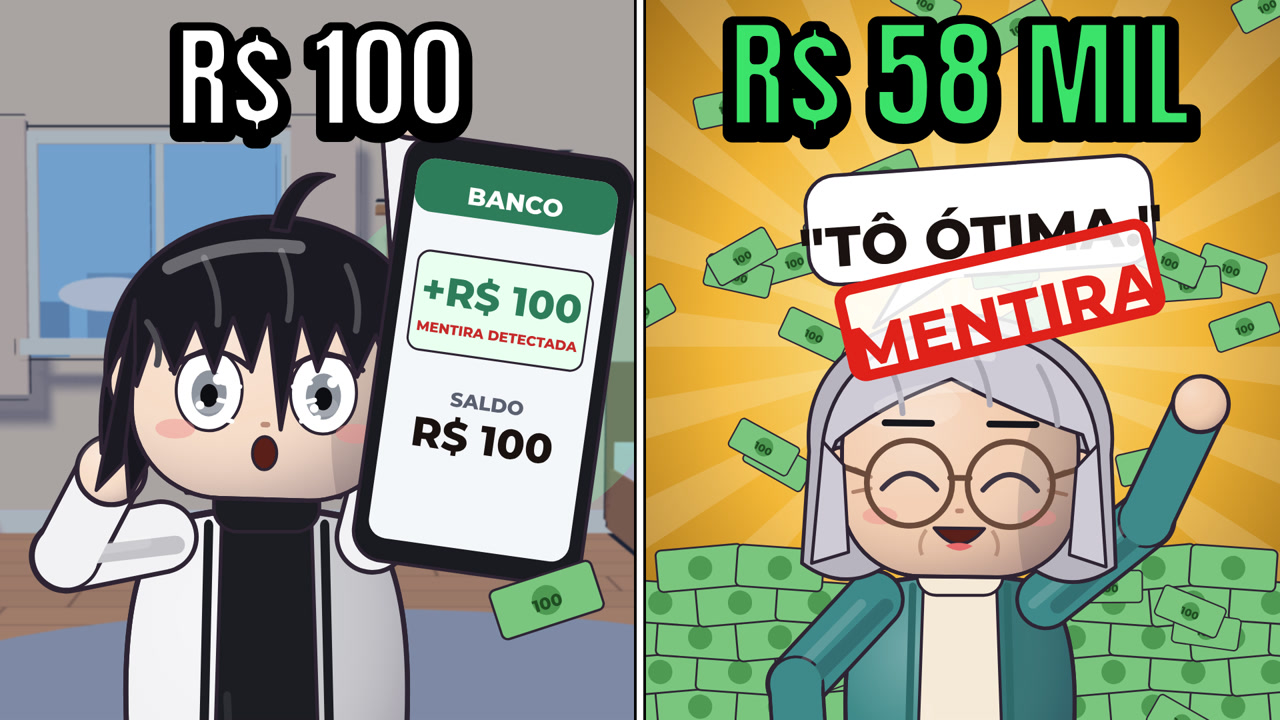
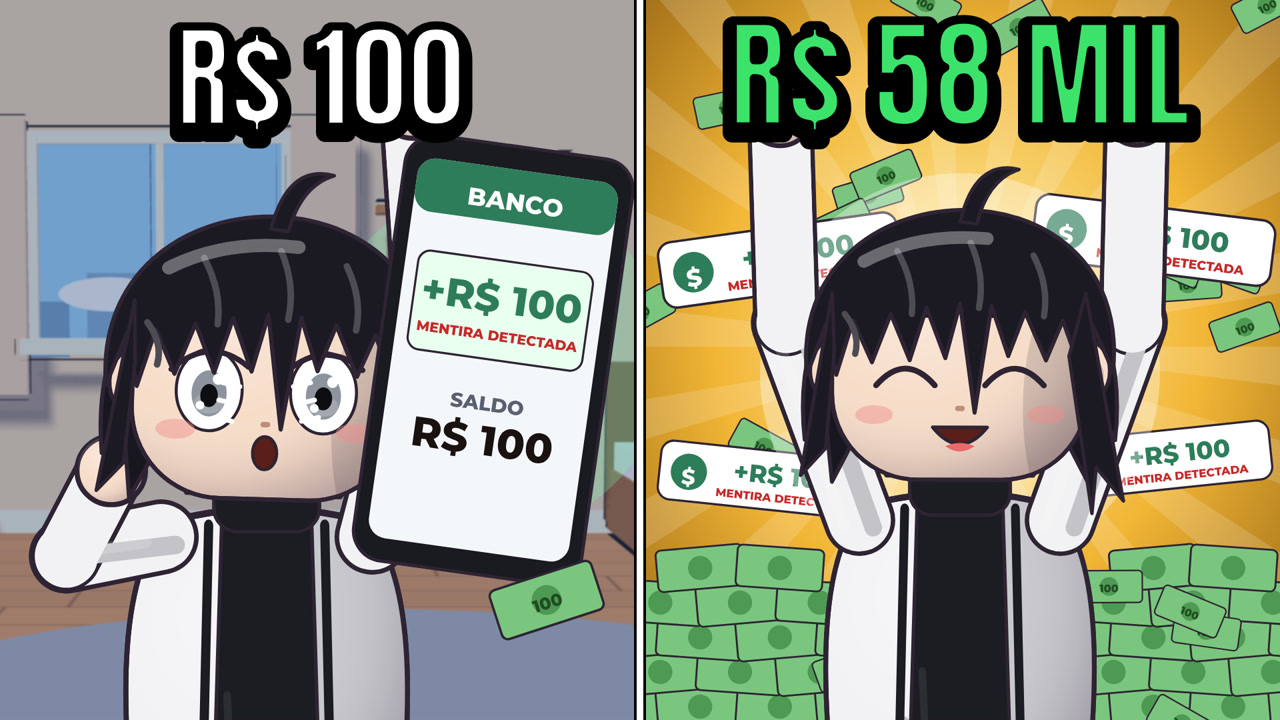
Mentiras: capa v5 sem a mae (Neo comemorando na chuva de dinheiro)
Claude-Session: https://claude.ai/code/session_01LhtxzVH3qqLdbNSUbkPF4y

Changed region(s): [[0.5, 0.1833, 1.0, 1.0]]

diff --git a/longos/capas_v3/d2.js b/longos/capas_v3/d2.js
@@ -12,9 +12,10 @@ for (let i = 0; i < 22; i++) { const a = i * (Math.PI * 2 / 22); right += '<poly
 const pile = (x, y, s) => { let p = ''; for (let r = 0; r < 5; r++) for (let c = 0; c < 6 - r; c++) p += G(`translate(${x + (c - (5 - r) / 2) * 92},${y - r * 40}) rotate(${(c + r) % 2 ? 4 : -5})`, R(-50, -24, 100, 48, 6, '#7BC67E', 4) + C(0, 0, 14, '#4E9A52', 0)); return G(`translate(0,0) scale(1)`, `<g transform="translate(${x},${y}) scale(${s}) translate(${-x},${-y})">${p}</g>`); };
 right += pile(1110, 1060, 1.3) + pile(1790, 1060, 1.3);
 right += bills(2.5, 40, 12).replace(/translate\((\d+(\.\d+)?)/g, (m, x) => 'translate(' + (960 + parseFloat(x) / 2));
-right += person(Object.assign({}, LUCIA, { x: 1440, y: 1640, s: 1.75, expr: 'happy', hr: [230, -340] }));
-right += G('translate(1470,330) rotate(-4)', R(-260, -82, 520, 164, 46, '#FFFFFF', 10) + P('M-120,78 L-170,150 L-40,78Z', '#FFFFFF', 10) + R(-110, 72, 80, 12, 0, '#FFFFFF', 0) + T(0, 32, '"TÔ ÓTIMA."', 84, '#1A1210'));
-right += G('translate(1500,450) rotate(-13)', `<rect x="-235" y="-66" width="470" height="132" rx="18" fill="rgba(255,255,255,0.88)" stroke="#E0201A" stroke-width="16"/>` + T(0, 34, 'MENTIRA', 96, '#E0201A'));
+const notif = (x, y, r, sc) => G(`translate(${x},${y}) rotate(${r}) scale(${sc})`, R(-190, -52, 380, 104, 22, '#FFFFFF', 7) + C(-138, 0, 32, '#2E7D5A', 0) + T(-138, 12, '$', 38, '#FFFFFF') + T(30, -6, '+R$ 100', 44, '#2E7D5A') + T(30, 32, 'MENTIRA DETECTADA', 20, '#C62A2A'));
+right += notif(1170, 390, -8, 0.95) + notif(1730, 360, 7, 0.95) + notif(1150, 720, 6, 0.85) + notif(1745, 690, -6, 0.85);
+right += C(1440, 560, 300, 'rgba(255,255,255,0.35)', 0);
+right += person(neoAt(25, { x: 1440, y: 1900, s: 2.05, expr: 'happy', smile: true, hl: [-190, -470], hr: [190, -470] }));
 g += panel(960, 960, 'maeCozinha', right, 'blur(2px) saturate(1.2)', 0);
 g += sep(960);
 g += BIG(480, 190, 'R$ 100', 175) + BIG(1440, 190, 'R$ 58 MIL', 185, '#3BE36A');
